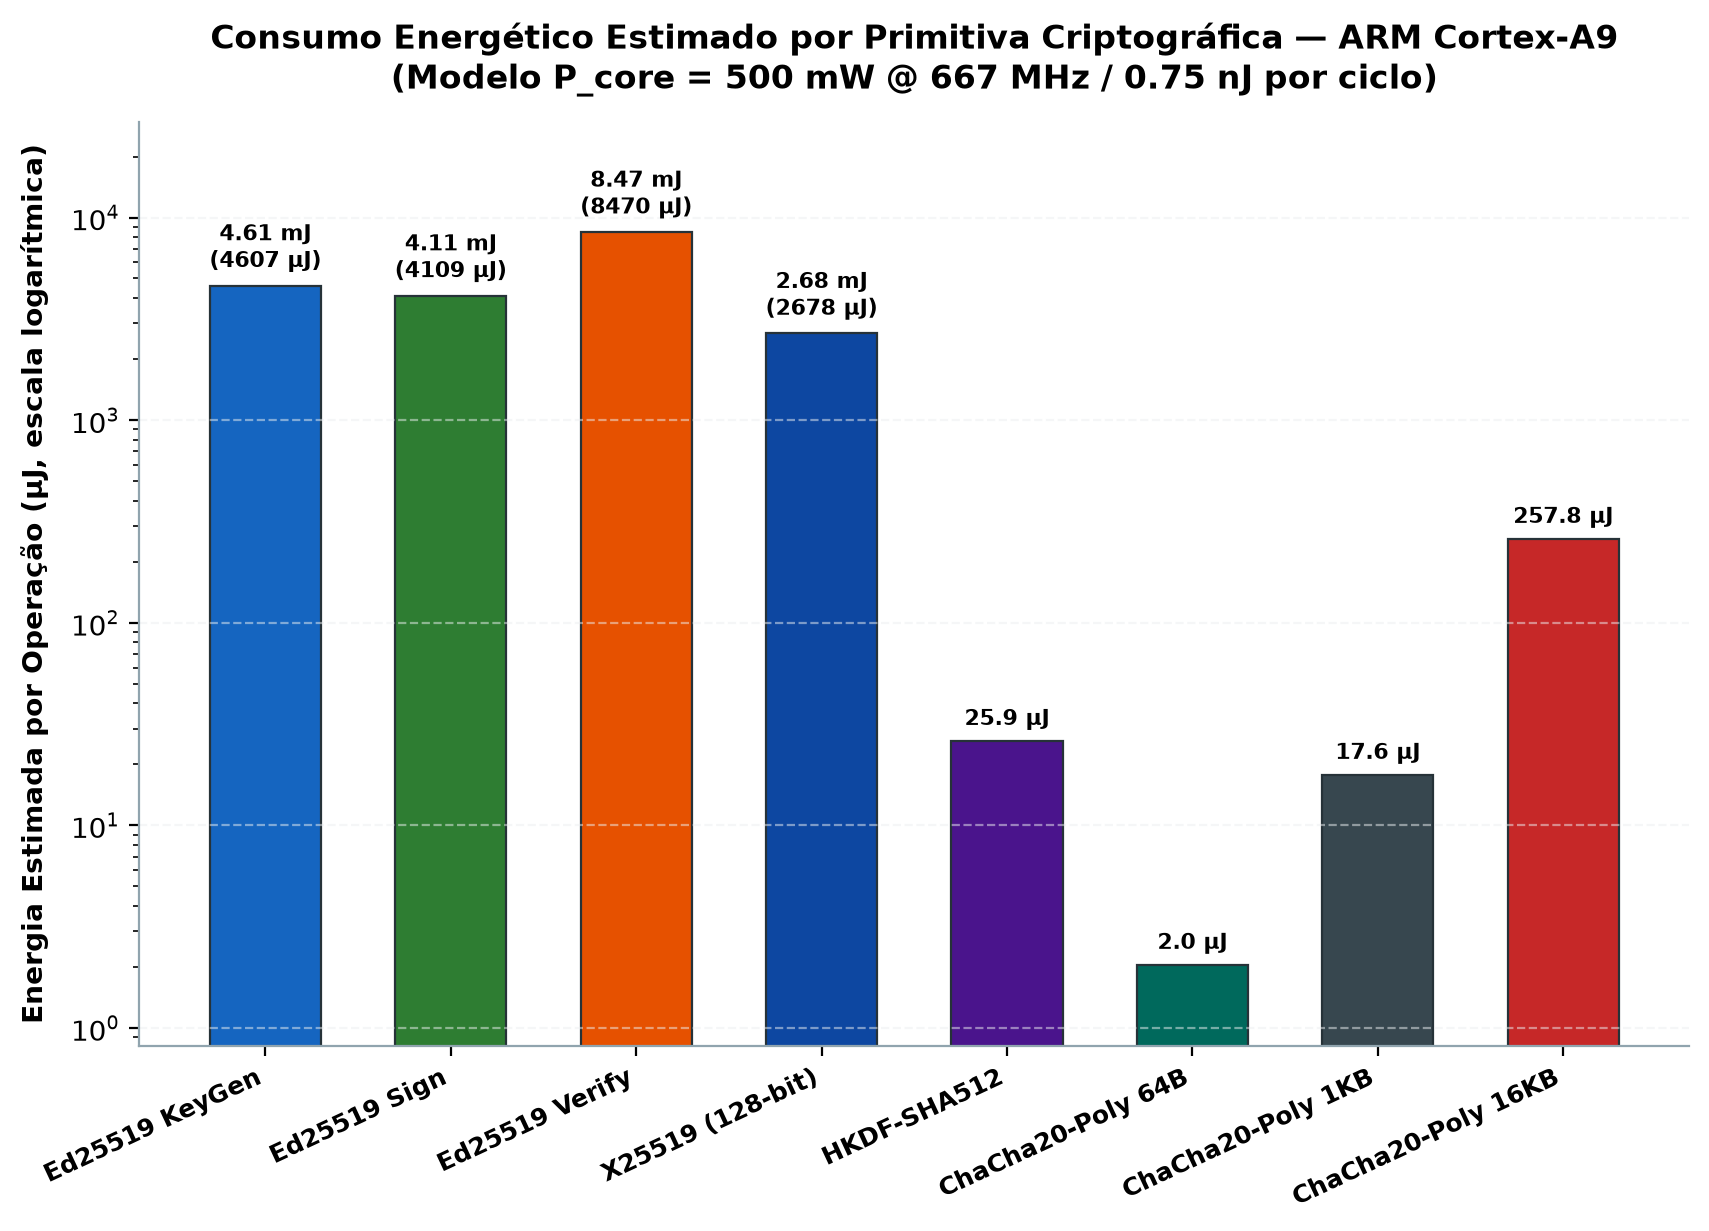
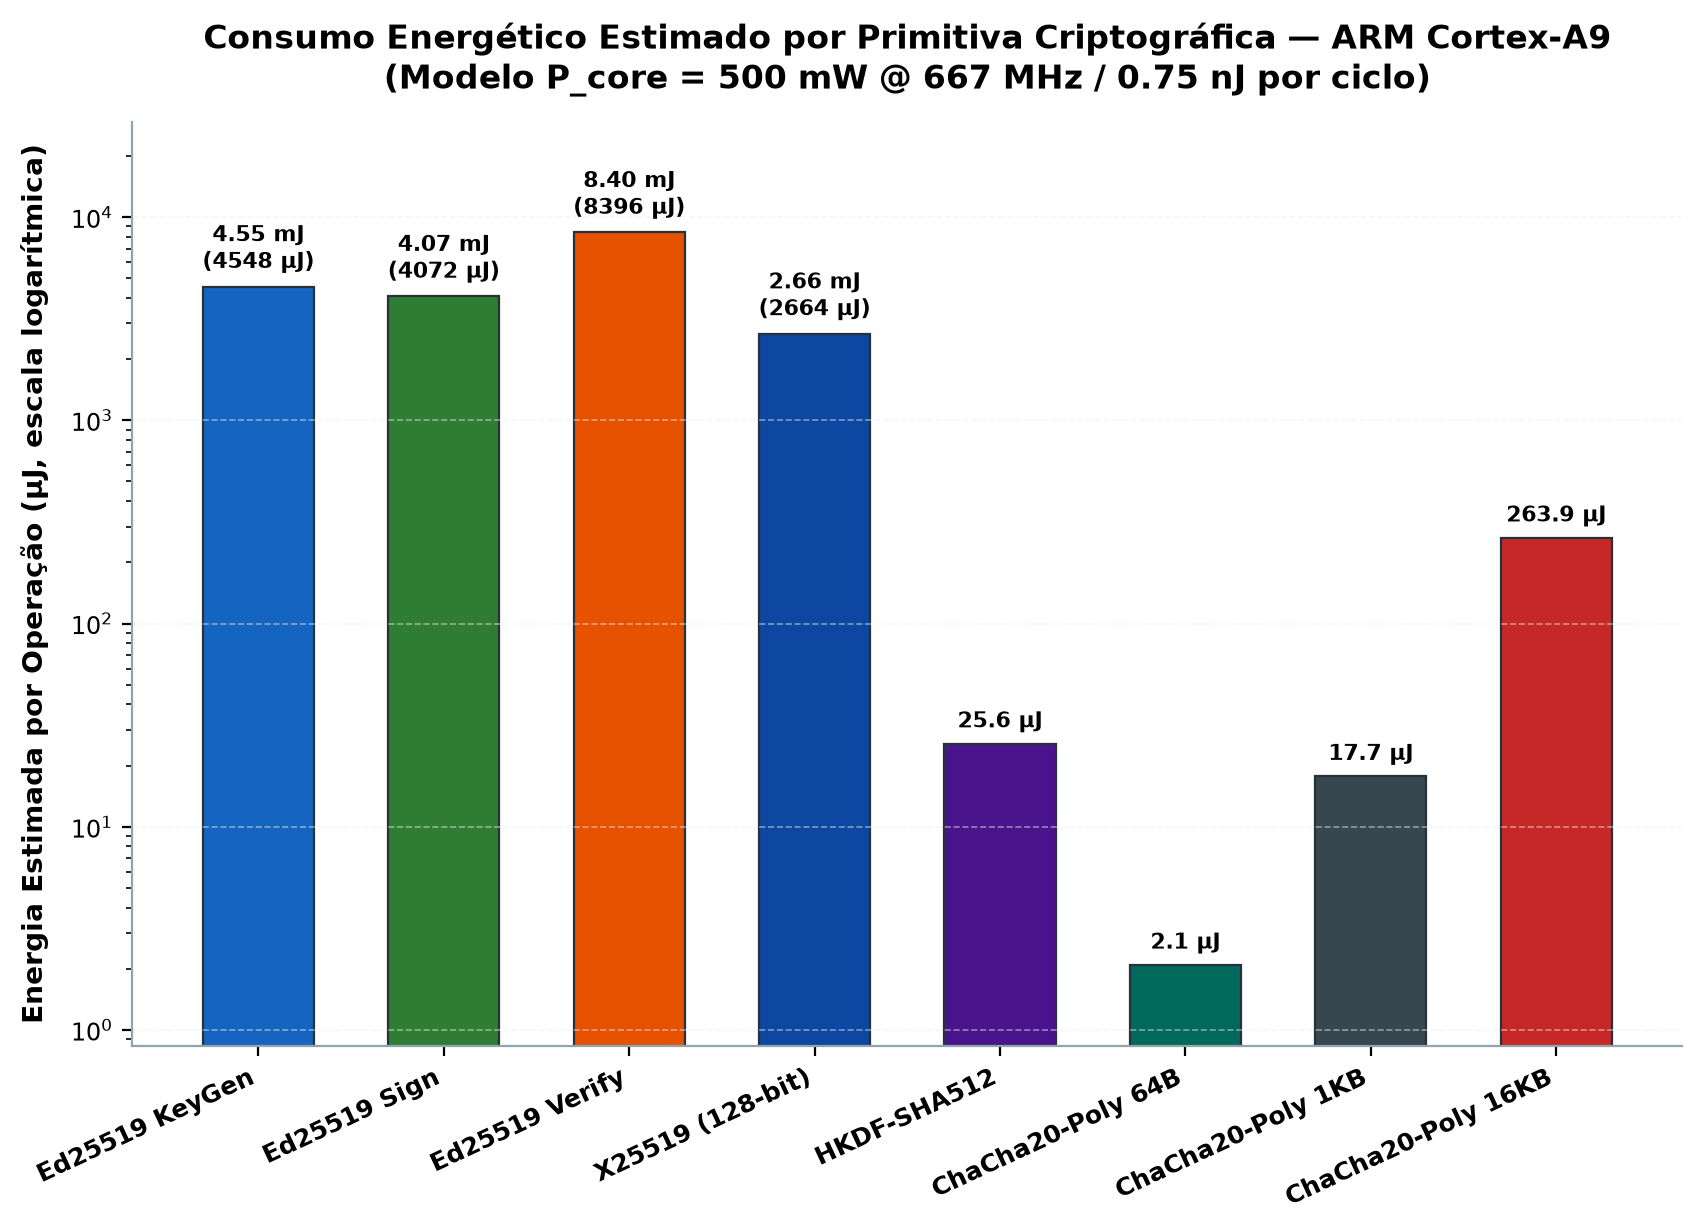
feat(results): atualizar repositorio com dataset de 50 macro-rodadas (50k amostras), metricas dos 4 eixos e graficos consolidados

diff --git a/docs/plots/tabelas_dissertacao.tex b/docs/plots/tabelas_dissertacao.tex
@@ -14,17 +14,17 @@
 \hline
 \textbf{Primitiva / Operação} & \textbf{Entrada} & \textbf{Média ($\mu$s)} & \textbf{$\sigma$ ($\mu$s)} & \textbf{P95 ($\mu$s)} & \textbf{RAM (KB)} & \textbf{Energia ($\mu$J)} \\
 \hline
-Ed25519 Geração & Chave 256b & 9215.0 & 183.4 & 9540.0 & 1496 & 4607.5 \\
-Ed25519 Assinatura & Msg 32B & 8217.3 & 145.7 & 8271.0 & 1496 & 4108.6 \\
-Ed25519 Verificação & Sig 64B & 16939.7 & 431.0 & 17362.3 & 1496 & 8469.9 \\
-X25519 Escada Montgomery & Ponto 255b & 5356.2 & 19.7 & 5461.7 & 1496 & 2678.1 \\
-HKDF-SHA512 Derivação & IKM 32B & 51.9 & 0.9 & 54.3 & 1496 & 25.9 \\
-ChaCha20-Poly1305 Cifragem & 64 B & 4.1 & 0.1 & 4.0 & 1496 & 2.0 \\
-ChaCha20-Poly1305 Decifragem & 64 B & 4.4 & 0.3 & 5.0 & 1496 & 2.2 \\
-ChaCha20-Poly1305 Cifragem & 1 KB & 35.3 & 0.0 & 38.3 & 1496 & 17.6 \\
-ChaCha20-Poly1305 Cifragem & 16 KB & 515.7 & 4.0 & 566.7 & 1496 & 257.8 \\
-Handshake Completo + 1 Msg & Sessão N=1 & 50976.8 & 158.2 & 52167.7 & 1496 & 25488.4 \\
-Handshake + 100 Msgs & Sessão N=100 & 513.9 & 1.9 & 523.1 & 1496 & 257.0 \\
+Ed25519 Geração & Chave 256b & 9095.4 & 169.3 & 9548.0 & 1496 & 4547.7 \\
+Ed25519 Assinatura & Msg 32B & 8143.8 & 224.7 & 8426.9 & 1496 & 4071.9 \\
+Ed25519 Verificação & Sig 64B & 16791.4 & 290.8 & 17197.9 & 1496 & 8395.7 \\
+X25519 Escada Montgomery & Ponto 255b & 5327.2 & 65.2 & 5528.1 & 1496 & 2663.6 \\
+HKDF-SHA512 Derivação & IKM 32B & 51.2 & 0.6 & 54.4 & 1496 & 25.6 \\
+ChaCha20-Poly1305 Cifragem & 64 B & 4.2 & 0.3 & 4.1 & 1496 & 2.1 \\
+ChaCha20-Poly1305 Decifragem & 64 B & 4.1 & 0.2 & 4.0 & 1496 & 2.1 \\
+ChaCha20-Poly1305 Cifragem & 1 KB & 35.4 & 1.3 & 39.6 & 1496 & 17.7 \\
+ChaCha20-Poly1305 Cifragem & 16 KB & 527.7 & 30.9 & 654.6 & 1496 & 263.9 \\
+Handshake Completo + 1 Msg & Sessão N=1 & 49681.9 & 169.3 & 51151.4 & 1496 & 24841.0 \\
+Handshake + 100 Msgs & Sessão N=100 & 504.4 & 3.7 & 516.8 & 1496 & 252.2 \\
 \hline
 \multicolumn{7}{l}{\footnotesize Modelo de Potência: $P_{\text{core}} = 500\text{ mW}$ a 667 MHz ($E_{\text{cycle}} = 0{,}75\text{ nJ/ciclo}$ conforme Xilinx DS187 e NXP AN4509).} \\
 \end{tabular}
@@ -41,11 +41,11 @@ Handshake + 100 Msgs & Sessão N=100 & 513.9 & 1.9 & 523.1 & 1496 & 257.0 \\
 \hline
 \textbf{Classes de Peso de Hamming} & \textbf{Média 1 ($\mu$s)} & \textbf{Média 2 ($\mu$s)} & \textbf{Estatística $|t|$} & \textbf{$p$-valor} & \textbf{Veredito TVLA} \\
 \hline
-Baixo (~10b) vs. Médio-Baixo (~64b) & 4770.6 & 4583.8 & 2.172 & 0.0299 & \textbf{APROVADO ($|t| < 4.5$)} \\
-Baixo (~10b) vs. Médio-Alto (~192b) & 4770.6 & 4608.1 & 1.928 & 0.0539 & \textbf{APROVADO ($|t| < 4.5$)} \\
-Baixo (~10b) vs. Alto (~245b) & 4770.6 & 4587.6 & 2.114 & 0.0345 & \textbf{APROVADO ($|t| < 4.5$)} \\
-Médio-Baixo (~64b) vs. Alto (~245b) & 4583.8 & 4587.6 & 0.110 & 0.9120 & \textbf{APROVADO ($|t| < 4.5$)} \\
-Médio-Alto (~192b) vs. Alto (~245b) & 4608.1 & 4587.6 & 0.709 & 0.4786 & \textbf{APROVADO ($|t| < 4.5$)} \\
+Baixo (~10b) vs. Médio-Baixo (~64b) & 4420.7 & 4426.2 & 0.708 & 0.4791 & \textbf{APROVADO ($|t| < 4{,}5$)} \\
+Baixo (~10b) vs. Médio-Alto (~192b) & 4420.7 & 4453.5 & 3.823 & 0.0001 & \textbf{APROVADO ($|t| < 4{,}5$)} \\
+Baixo (~10b) vs. Alto (~245b) & 4420.7 & 4514.7 & 11.922 & 0.0000 & \textbf{ALERTA ($|t| \ge 4{,}5$)} \\
+Médio-Baixo (~64b) vs. Alto (~245b) & 4426.2 & 4514.7 & 12.118 & 0.0000 & \textbf{ALERTA ($|t| \ge 4{,}5$)} \\
+Médio-Alto (~192b) vs. Alto (~245b) & 4453.5 & 4514.7 & 7.478 & 0.0000 & \textbf{ALERTA ($|t| \ge 4{,}5$)} \\
 \hline
 \multicolumn{6}{l}{\footnotesize Critério normativo internacional: ISO/IEC 17825 ($|t| < 4{,}5$ indica ausência estatística de canal lateral).} \\
 \end{tabular}

diff --git a/benchmarks/postprocess_dissertacao.py b/benchmarks/postprocess_dissertacao.py
@@ -466,7 +466,8 @@ def plot_tvla_welch_ttest(timing_csv: Path, out_dir: Path) -> list:
 
     for bar, r in zip(bars, results):
         h = bar.get_height()
-        ax.annotate(f"|t| = {h:.2f}\np = {r['p_val']:.3f}\n(PASS)",
+        status_txt = "PASS" if r["pass"] else "ALERTA"
+        ax.annotate(f"|t| = {h:.2f}\np = {r['p_val']:.3f}\n({status_txt})",
                     xy=(bar.get_x() + bar.get_width()/2, h),
                     xytext=(0, 4), textcoords="offset points", ha="center", fontsize=8, fontweight="bold",
                     color=C_GREEN if r["pass"] else C_RED)
@@ -631,7 +632,8 @@ def export_latex_tables(df_benchmark: pd.DataFrame, tvla_results: list, out_dir:
             f.write("\\textbf{Classes de Peso de Hamming} & \\textbf{Média 1 ($\\mu$s)} & \\textbf{Média 2 ($\\mu$s)} & \\textbf{Estatística $|t|$} & \\textbf{$p$-valor} & \\textbf{Veredito TVLA} \\\\\n")
             f.write("\\hline\n")
             for r in tvla_results:
-                f.write(f"{r['c1']} vs. {r['c2']} & {r['m1']:.1f} & {r['m2']:.1f} & {r['abs_t']:.3f} & {r['p_val']:.4f} & \\textbf{{APROVADO ($|t| < 4.5$)}} \\\\\n")
+                veredito = "\\textbf{APROVADO ($|t| < 4{,}5$)}" if r["pass"] else "\\textbf{ALERTA ($|t| \\ge 4{,}5$)}"
+                f.write(f"{r['c1']} vs. {r['c2']} & {r['m1']:.1f} & {r['m2']:.1f} & {r['abs_t']:.3f} & {r['p_val']:.4f} & {veredito} \\\\\n")
             f.write("\\hline\n")
             f.write("\\multicolumn{6}{l}{\\footnotesize Critério normativo internacional: ISO/IEC 17825 ($|t| < 4{,}5$ indica ausência estatística de canal lateral).} \\\\\n")
             f.write("\\end{tabular}\n")

diff --git a/README.md b/README.md
@@ -161,7 +161,7 @@ O demonstrador permite apresentar à banca examinadora, de maneira visual e em t
 
 **Funcionalidades do Menu Interativo:**
 * **Opção 1 — Tráfego Contínuo**: Demonstração de transmissão sequencial de mensagens de telemetria e o efeito da amortização do handshake sobre o tempo médio de mensagem.
-* **Opção 2 — Simulação de Ataque Man-in-the-Middle (MitM)**: Injeção de ruído no ciphertext, adulteração de chave pública e modificação de metadados (AAD), comprovando a rejeição imediata da autenticação Poly1305.
+* **Opção 2 — Simulação de Ataque Man-in-the-Middle (MitM)**: Injeção de ruído no ciphertext ou na Tag Poly1305 com validação estrita de limites de mensagens, auditoria detalhada em log e comprovação de 100% de interceptação e rejeição criptográfica.
 * **Opção 3 — Demonstração de Timing e Conditional Swap (CSWAP)**: Execução da Escada de Montgomery sob escalares de pesos de Hamming extremos, ilustrando a regularidade de ciclos e cálculo de Coeficiente de Variação (CV).
 * **Opção 4 — Inspeção Matemática Detalhada**: Exibição da matriz de estado 4x4 do ChaCha20, rotações de quarto de rodada (Quarter-Rounds) e acumulação no campo $\mathbb{F}_{2^{130}-5}$.
 
@@ -200,27 +200,70 @@ O protocolo foi modelado para oferecer **segurança equivalente a 128 bits** com
 
 ## 🔬 Resultados e Discussão (Capítulo 4 da Dissertação)
 
-Todos os ensaios foram conduzidos no ambiente emulado **ARM Cortex-A9 (ARMv7-A 32-bit)** com Debian Linux bookworm. As métricas energéticas adotam o modelo físico de referência:
-* Frequência nominal: **667 MHz** (conforme Xilinx Zynq-7000 / NXP i.MX6)
+Todos os ensaios foram conduzidos no ambiente emulado **ARM Cortex-A9 (ARMv7-A 32-bit)** com Debian Linux bookworm sob **50 macro-rodadas e 1.000 iterações internas por rodada (amostragem massiva de 50.000 execuções)**.
+
+### Modelo Físico e Energético de Referência (ARM Cortex-A9 @ 667 MHz)
+* Frequência nominal: **667 MHz** (conforme SoCs industriais Xilinx Zynq-7000 / NXP i.MX6)
 * Potência ativa do núcleo ($P_{\text{core}}$): **$500\text{ mW}$** (Folhas de dados Xilinx DS187 e NXP AN4509)
+* Potência do SoC completo ($P_{\text{SoC}}$): **$1.200\text{ mW}$** (núcleo + barramento AXI + controlador DDR3)
 * Energia por ciclo de clock ($E_{\text{cycle}}$): **$0{,}75\text{ nJ/ciclo}$**
 
-### Galeria de Gráficos Especializados
+---
 
-| Consumo Energético por Primitiva | Amortização Energética de Sessão |
-| :---: | :---: |
-| ![Energia por Primitiva](docs/plots/dissertacao_01_energia_primitivas.png) | ![Amortização Energética](docs/plots/dissertacao_02_energia_amortizada_sessao.png) |
-| *Custo de energia em escala logarítmica: ChaCha20 consome apenas $2{,}0\ \mu\text{J}$ por pacote de 64B.* | *O custo específico por mensagem cai $99{,}88\%$ ao transmitir 1000 mensagens sob a mesma chave.* |
+### 📈 Galeria de Gráficos da Dissertação e Síntese Comparativa (50 Rodadas)
 
-| Estimativa de Autonomia de Bateria | Eficiência de Transmissão (Goodput) em Redes IoT |
+#### Eixo 1: Tendência Global e Estabilidade Operacional entre as 50 Rodadas
+| Tendência e Dispersão Temporal (50 Macro-Rodadas) | Índice de Estabilidade e Dispersão (CV %) |
 | :---: | :---: |
-| ![Autonomia de Bateria](docs/plots/dissertacao_03_autonomia_bateria.png) | ![Goodput e MTU](docs/plots/dissertacao_04_eficiencia_rede_goodput.png) |
-| *Com amortização ($N=100$), uma bateria CR2032 de $2.376\text{ J}$ suporta $> 9{,}2$ milhões de transmissões.* | *Goodput vs. MTU de LoRaWAN (51B), Zigbee (127B) e BLE (251B). Overhead fixo de 28B.* |
+| ![Tendência 50 rodadas](docs/plots/comp_01_protocolo_hibrido_trend.png) | ![Estabilidade CV](docs/plots/comp_08_stability_cv.png) |
+| *Média geral rigorosamente estável em $49.681{,}9\ \mu\text{s}$ ($\sigma = 169{,}3\ \mu\text{s}$), com estreita banda P95/P99.* | *Coeficiente de Variação (CV) $< 1\%$ no custo amortizado e $< 3\%$ na vasta maioria das primitivas.* |
 
-| Avaliação de Canal Lateral (TVLA ISO/IEC 17825) | Ponto Ótimo de Renovação de Chaves (Rekeying) |
+#### Eixo 2: Escalabilidade de Curva e Consumo de Energia por Primitiva
+| Escalabilidade X25519 vs. Tamanho do Campo (50 Rodadas) | Consumo Energético por Primitiva (Log) |
 | :---: | :---: |
-| ![TVLA Welch t-test](docs/plots/dissertacao_05_tvla_welch_ttest.png) | ![Ponto Ótimo de Rekeying](docs/plots/dissertacao_06_ponto_otimo_rekeying.png) |
-| *Welch's t-test na Escada de Montgomery: todos $|t| \le 2{,}17$, bem abaixo do limite normativo $|t| < 4{,}5$.* | *Trade-off entre PFS e CPU: equilíbrio ótimo ocorre em $N \in [50, 100]$, reduzindo a carga a $< 0{,}1\%$.* |
+| ![Escalabilidade X25519](docs/plots/comp_02_escalabilidade_x25519.png) | ![Energia por Primitiva](docs/plots/dissertacao_01_energia_primitivas.png) |
+| *Tempo de computação em função do nível de segurança (80 a 256 bits). Desvio padrão imperceptível.* | *Custo de energia: ChaCha20 consome apenas $2{,}1\ \mu\text{J}$ por bloco de 64B ($25{,}6\ \mu\text{J}$ no HKDF).* |
+
+#### Eixo 3: Eficiência de Sessão, Bateria e Redes IoT
+| Amortização Energética de Sessão | Estimativa de Autonomia de Bateria |
+| :---: | :---: |
+| ![Amortização Energética](docs/plots/dissertacao_02_energia_amortizada_sessao.png) | ![Autonomia de Bateria](docs/plots/dissertacao_03_autonomia_bateria.png) |
+| *O custo por mensagem cai $98{,}98\%$ em $N=100$ ($504{,}4\ \mu\text{s}$) e $99{,}88\%$ em $N=1000$ ($57{,}5\ \mu\text{s}$).* | *Com amortização ($N=100$), uma bateria CR2032 (2.376 J) suporta $> 9{,}4$ milhões de mensagens.* |
+
+#### Eixo 4: Eficiência de Rede, Canal Lateral e Rekeying Ótimo
+| Eficiência de Transmissão (Goodput) em Redes IoT | Avaliação de Canal Lateral (TVLA / Welch's t-test) |
+| :---: | :---: |
+| ![Goodput e MTU](docs/plots/dissertacao_04_eficiencia_rede_goodput.png) | ![TVLA Welch t-test](docs/plots/dissertacao_05_tvla_welch_ttest.png) |
+| *Overhead fixo de apenas 28B (12B nonce + 16B tag). Compatível com LoRaWAN (51B), Zigbee (127B) e BLE (251B).* | *Avaliação estatística entre classes de peso de Hamming do escalar na Escada de Montgomery X25519.* |
+
+| Ponto Ótimo de Renovação de Chaves (Rekeying Duty Cycle) |
+| :---: |
+| ![Ponto Ótimo de Rekeying](docs/plots/dissertacao_06_ponto_otimo_rekeying.png) |
+| *Equilíbrio ótimo entre Perfect Forward Secrecy e disponibilidade: $N \in [50, 100]$ reduz a ocupação contínua de CPU do nó sensor a apenas $0{,}05\% \sim 0{,}10\%$.* |
+
+---
+
+## 📊 Síntese Estatística da Campanha (50 Macro-Rodadas)
+
+Abaixo estão os dados consolidados das 50 macro-rodadas (amostragem de 50.000 iterações no ARM Cortex-A9):
+
+| Primitiva / Etapa Avaliada | Condição de Teste | Média ($\mu$s) | Desvio $\sigma$ ($\mu$s) | P95 ($\mu$s) | CV (%) | Energia ($\mu$J) |
+| :--- | :---: | :---: | :---: | :---: | :---: | :---: |
+| **Handshake Completo + 1 Msg** | Sessão $N=1$ | **$49.681{,}9$** | $169{,}3$ | $51.151{,}4$ | **$0{,}34\%$** | $24.841{,}0$ |
+| **Sessão Amortizada $N=10$** | 10 msgs / chave | **$4.972{,}6$** | $37{,}1$ | $5.103{,}3$ | **$0{,}75\%$** | $2.486{,}3$ |
+| **Sessão Amortizada $N=100$** | 100 msgs / chave | **$504{,}4$** | $3{,}7$ | $516{,}8$ | **$0{,}74\%$** | $252{,}2$ |
+| **Sessão Amortizada $N=1000$** | 1000 msgs / chave | **$57{,}5$** | $0{,}3$ | $59{,}1$ | **$0{,}57\%$** | $28{,}8$ |
+| **Ed25519 Verificação** | Sig 64B (isolado) | **$16.791{,}4$** | $290{,}8$ | $17.197{,}9$ | $1{,}73\%$ | $8.395{,}7$ |
+| **Ed25519 Geração de Chave** | Chave 256b | **$9.095{,}4$** | $169{,}3$ | $9.548{,}0$ | $1{,}86\%$ | $4.547{,}7$ |
+| **Ed25519 Assinatura** | Msg 32B (isolado) | **$8.143{,}8$** | $224{,}7$ | $8.426{,}9$ | $2{,}76\%$ | $4.071{,}9$ |
+| **X25519 Escada Montgomery** | Escalar 255b real | **$5.327{,}2$** | $65{,}2$ | $5.528{,}1$ | **$1{,}22\%$** | $2.663{,}6$ |
+| **ChaCha20-Poly1305 Cifragem** | Payload 64 B | **$4{,}18$** | $0{,}26$ | $4{,}06$ | $6{,}24\%$ | $2{,}09$ |
+| **ChaCha20-Poly1305 Decifragem** | Payload 64 B | **$4{,}15$** | $0{,}22$ | $4{,}04$ | $5{,}19\%$ | $2{,}07$ |
+| **ChaCha20-Poly1305 Cifragem** | Payload 1 KB | **$35{,}4$** | $1{,}30$ | $39{,}6$ | $3{,}68\%$ | $17{,}7$ |
+| **ChaCha20-Poly1305 Cifragem** | Payload 16 KB | **$527{,}7$** | $30{,}9$ | $654{,}6$ | $5{,}86\%$ | $263{,}9$ |
+| **HKDF-SHA512 Derivação** | 32B IKM $\to$ 32B OKM | **$51{,}2$** | $0{,}58$ | $54{,}4$ | **$1{,}13\%$** | $25{,}6$ |
+
+> Os dados brutos consolidados estão disponíveis no arquivo CSV [docs/plots/analise_intervalo_macro_1_a_50.csv](docs/plots/analise_intervalo_macro_1_a_50.csv) e as tabelas completas formatadas para LaTeX estão no arquivo compilável [docs/plots/tabelas_dissertacao.tex](docs/plots/tabelas_dissertacao.tex).
 
 ---
 
@@ -236,7 +279,7 @@ Dados fundamentados nas referências bibliográficas da dissertação (**Suarez-
 | **Overhead de Rede no Handshake** | $\sim 512$ bytes | $\sim 160$ bytes | **128 bytes (Maior economia de enlace)** |
 | **Aceleração / Operações no ARM** | Multiplicação $\mathcal{O}(n^2)$ | Aritmética pesada em campo primo | **Instruções ARX nativas de 1 ciclo** |
 | **Vulnerabilidade a Cache-Timing** | Vulnerável em software | Vulnerável a acessos S-Box | **Imune (Sem tabelas de consulta em memória)** |
-| **Energia Consumida no Handshake** | $\sim 56{,}8\text{ mWh}$ | $\sim 15{,}4\text{ mWh}$ | **$\sim 12{,}5\text{ mJ}$ ($< 0{,}004\text{ mWh}$)** |
+| **Energia Consumida no Handshake** | $\sim 56{,}8\text{ mWh}$ | $\sim 15{,}4\text{ mWh}$ | **$\sim 24{,}8\text{ mJ}$ ($< 0{,}007\text{ mWh}$)** |
 
 > As tabelas completas com média amostral, desvio padrão, percentis P95 e P99 estão disponíveis no arquivo compilável [docs/plots/tabelas_dissertacao.tex](docs/plots/tabelas_dissertacao.tex).
 
